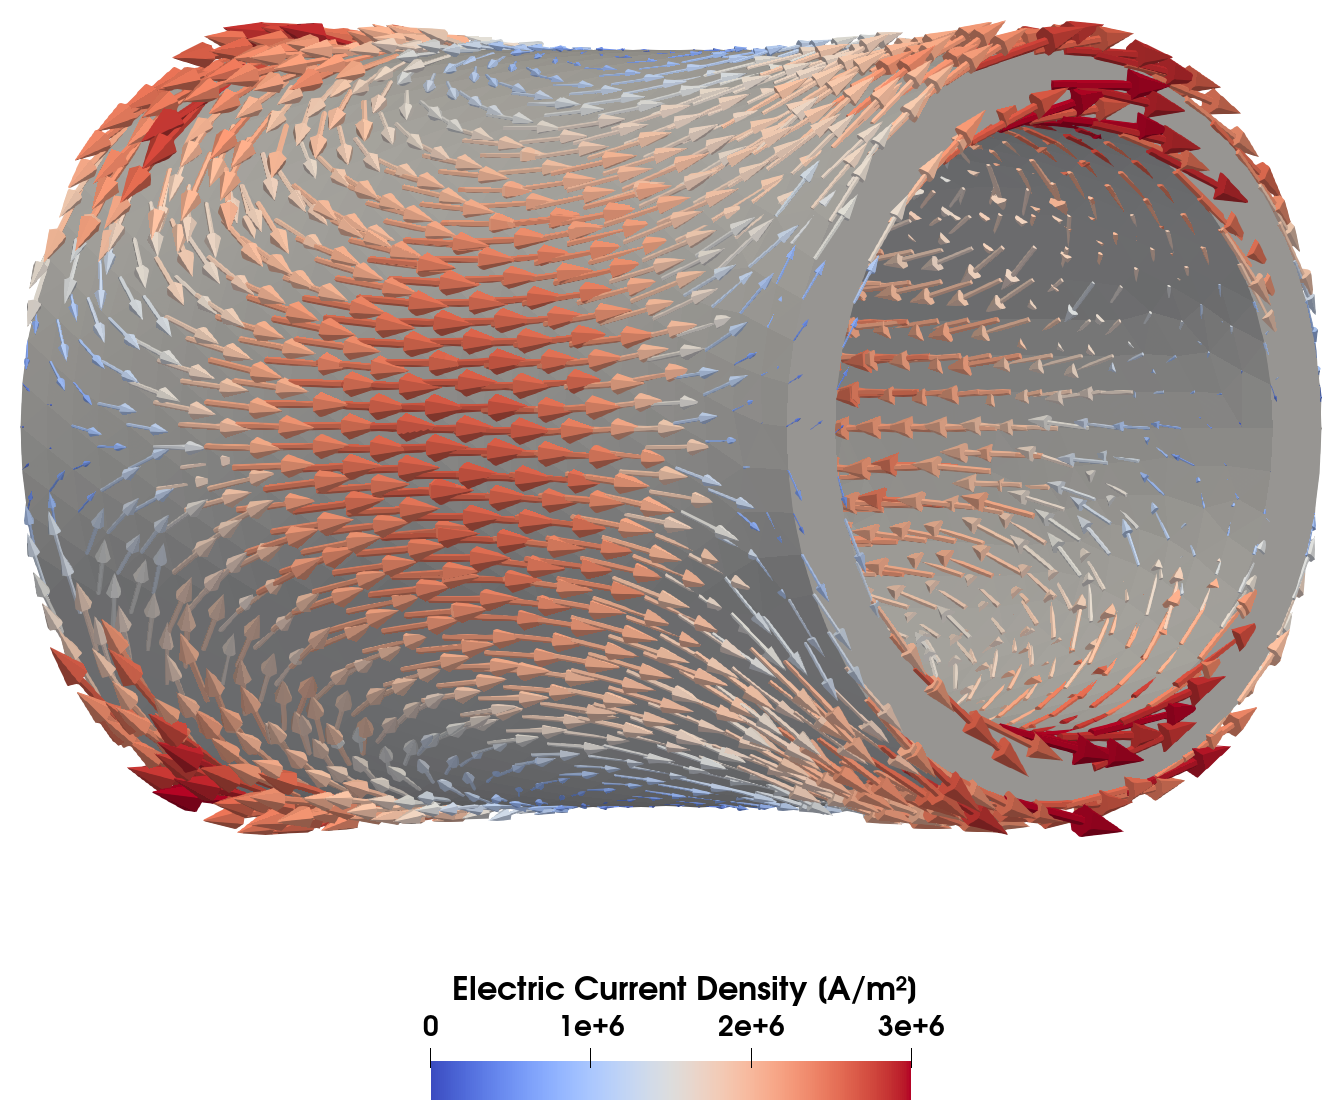
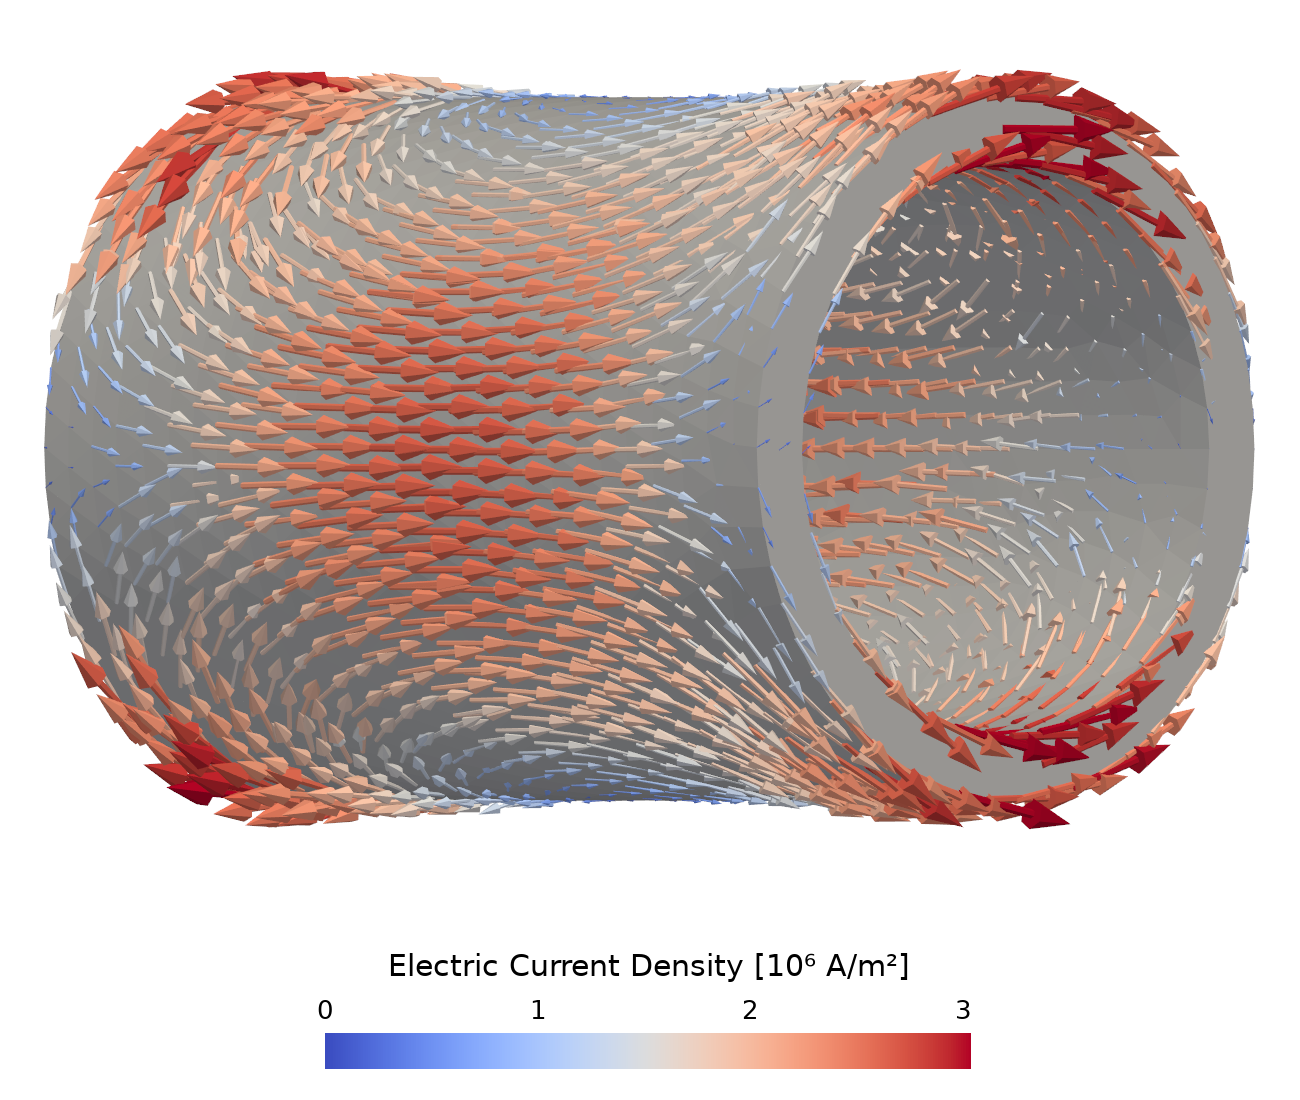
Render the Team 1b scene with PyVista

diff --git a/Electromagnetics/Compumag-Team1b-Felix-Cylinder/case.py b/Electromagnetics/Compumag-Team1b-Felix-Cylinder/case.py
@@ -156,11 +156,43 @@ class Team1bFelixCylinder(ValidationCase):
                 path=f"{self.results_path / 'OhmicHeating.png'}",
             )
 
-        # ParaView export (collective) ------------------------------------------------
+        # Field export for the scene of create_scenes() (collective)
         vis = self.sim.get_field_exporter()
         vis.add_field_output("Magnetic Flux Density")
         vis.add_field_output("Electric Current Density")
         vis.save()
+
+    def create_scenes(self):
+        # The eddy currents in the cylinder at the final time as arrows, in the horizontal view
+        # along (-1, 0, 1) with y up of data/Geometry.png.
+        import numpy
+
+        from casekit.pyvista_scene import FieldExportReader, add_colorbar, create_scene
+
+        cylinder = FieldExportReader(self.dir_path).read()["Cylinder"]
+        arrows = cylinder.glyph(
+            orient="Electric Current Density", scale="Electric Current Density", factor=1e-8
+        )
+
+        scene = create_scene((1300, 1100))
+        scene.add_mesh(cylinder, color=(0.69, 0.69, 0.69))
+        # The glyphs keep the current density as GlyphVector.
+        actor = scene.add_mesh(arrows, scalars="GlyphVector", clim=(0.0, 3.0e6))
+        scene.view_vector((-1, 0, 1), viewup=(0, 1, 0))
+        scene.camera.zoom(1.35)
+        # Room for the color bar below: the camera moves down (-y).
+        scene.camera.focal_point += numpy.array([0.0, -0.02, 0.0])
+        scene.camera.position += numpy.array([0.0, -0.02, 0.0])
+        add_colorbar(
+            scene,
+            actor,
+            "Electric Current Density [10⁶ A/m²]",
+            n_labels=4,
+            label_format="%.0f",
+            location="bottom",
+            scale=1e-6,
+        )
+        scene.show(screenshot=self.results_path / "Scene_Electric_Current_Density.png")
 
 
 if __name__ == "__main__":

diff --git a/Electromagnetics/Compumag-Team1b-Felix-Cylinder/create_geometry_image.py b/Electromagnetics/Compumag-Team1b-Felix-Cylinder/create_geometry_image.py
@@ -1,7 +1,8 @@
 """Render data/Geometry.png from geometry.step with the netgen viewer.
 
-The view is the one of the scene of create_scene.py, horizontal along (-1, 0, 1) so that the
-applied field (y) stays vertical; three arrows show the applied field. Needs a display; headless:
+The view is the one of the scene of create_scenes() in case.py, horizontal along (-1, 0, 1) so
+that the applied field (y) stays vertical; three arrows show the applied field. Needs a display;
+headless:
 
     xvfb-run -a -s "-screen 0 2400x1600x24" python create_geometry_image.py
 """

diff --git a/Electromagnetics/Compumag-Team1b-Felix-Cylinder/README.md b/Electromagnetics/Compumag-Team1b-Felix-Cylinder/README.md
@@ -46,7 +46,7 @@ The geometry is built with netgen in the `build_geometry` method of [case.py](ca
 
 ## Running
 
-Run the case with `pymufem case.py`. The scene of the Scenes section is rendered with ParaView by [create_scene.py](create_scene.py) (run with `pvpython create_scene.py` after the case). Figure 1 is rendered from `geometry.step` with the netgen viewer by [create_geometry_image.py](create_geometry_image.py), in the same view as Figure 3.
+Run the case with `pymufem case.py`. The scene of the Scenes section is rendered with [PyVista](https://pyvista.org/) by `create_scenes()` in [case.py](case.py) (run the case with `--scenes`, or with `--scenes-only` after a run; see [Scenes](https://github.com/Raiden-Numerics/mufem/blob/main/VALIDATION.md#scenes)). Figure 1 is rendered from `geometry.step` with the netgen viewer by [create_geometry_image.py](create_geometry_image.py), in the same view as Figure 3.
 
 ## Results
 
@@ -84,10 +84,10 @@ Figure 2 shows the power loss over time, compared with the curve of Fig. 8 of [2
 
 ## Scenes
 
-The magnetic flux density and the electric current density at the final time are exported to `VisualizationOutput/`; Figure 3 is rendered from them with ParaView by [create_scene.py](create_scene.py).
+The magnetic flux density and the electric current density at the final time are exported to `VisualizationOutput/`; Figure 3 is rendered from them with PyVista by `create_scenes()` in [case.py](case.py).
 
 <div align="center">
-<img src="results/Scene_Electric_Current_Density.png" alt="Eddy current density" width="45%">
+<img src="results/Scene_Electric_Current_Density.png" alt="Eddy current density" width="75%">
 <br/>
 <br/>
 <em>Figure 3: Eddy currents inside the cylinder at the final time.</em>
